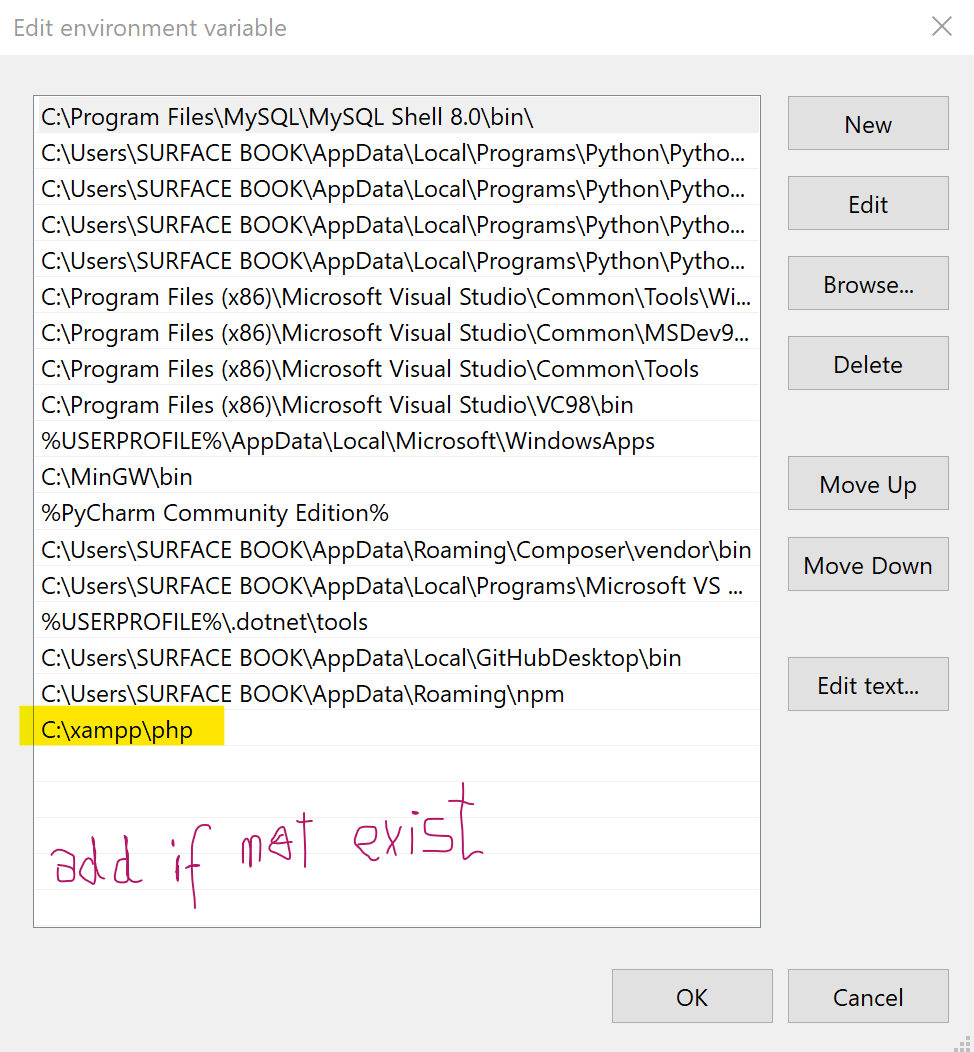
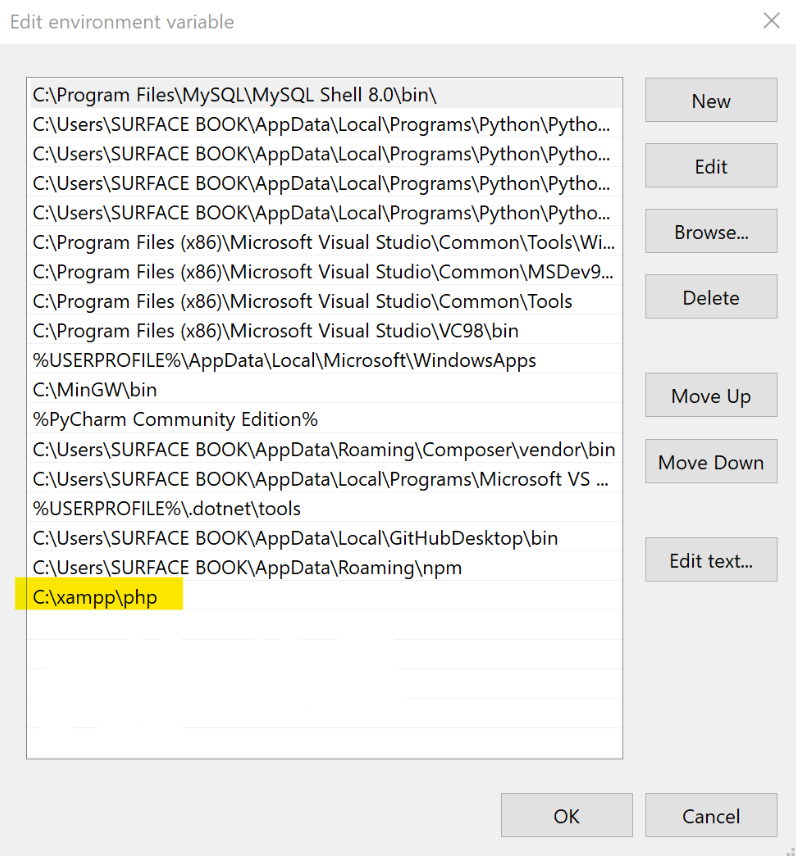
.

diff --git a/src/components/search/Search.sass b/src/components/search/Search.sass
@@ -1,0 +1,49 @@
+.main-home>a
+    color: white
+    text-decoration: none
+
+.box-search
+    background-color: rgba(255 255 255/6%)
+
+.container-search 
+    text-align: center
+    background: #171c2c
+    padding: 2rem
+    margin-top: 2rem
+    margin-bottom: 1rem
+    border-radius: 12px
+    box-shadow: 0 4px 6px rgba(0, 0, 0, 0.1)
+    @media (max-width: 768px) 
+        width: 90%
+
+
+.container-search h1 
+    font-size: 2rem
+    color: white
+
+
+.container-search p 
+    font-size: 1rem
+    margin: 1rem 0
+    color: #757070
+
+
+.container-search a 
+    display: inline-block
+    margin-top: 1rem
+    padding: 0.8rem 1.5rem
+    font-size: 1rem
+    color: #fff
+    background-color: #007bff
+    text-decoration: none
+    border-radius: 8px
+    transition: background-color 0.3s ease
+
+
+.container-search a:hover 
+    background-color: #81beff
+
+.link-title
+    font-size: 20px
+    @media (max-width: 768px) 
+        font-size: 16px

diff --git a/src/App.jsx b/src/App.jsx
@@ -1,35 +1,33 @@
 import "./App.sass";
 import { BrowserRouter as Router , Routes, Route} from "react-router-dom";
 import { 
-    Header , Home , Html , Css , Js , React , Mysql , Python , Django , DjangoRestFramework , Cmd , Git , Php , 
-    Laravel , Login , Search , CreateAccount , PayPalPayment , MyPage , ReportAnErrorUser , AllQuestion , 
-    AddQuestion , QuestionDetail , 
+    Header , Home , Html , Css , Js , React , Mysql , Python , Django , DjangoRestFramework , Cmd ,  Git , Php , Laravel , Login ,
+    Search , CreateAccount , PayPalPayment , MyPage , ReportAnErrorUser , AllQuestion , AddQuestion , QuestionDetail , 
 } from './components/path';
 import {  useCustomScrollToHash , useCustomResizeAside , useCustomClickMenuHeader } from "./custom/pathCustoms";
 
 function App() {
     const url =  "http://localhost:8000" ;  
-    // Scroll to id when print url  direct in browser
-    useCustomScrollToHash();  
-    // Handle Resize Aside 
-    useCustomResizeAside();   
+    useCustomScrollToHash();   // Scroll to id when print url  direct in browser
+    useCustomResizeAside();    // Handle Resize Aside 
     return (
     <Router>
         <Header  clickMenuHeader={useCustomClickMenuHeader}  />
         <Routes>
             <Route path='/'       element={<Home />} />
-            <Route path='/html/*' element={<Html     clickMenuHeader={useCustomClickMenuHeader}/>}/>
-            <Route path='/css/*' element={<Css       clickMenuHeader={useCustomClickMenuHeader}   />}  />
-            <Route path='/js/*' element={<Js         clickMenuHeader={useCustomClickMenuHeader} />}  />
-            <Route path='/react/*' element={<React   clickMenuHeader={useCustomClickMenuHeader} />}  />
-            <Route path='/mysql/*' element={<Mysql   clickMenuHeader={useCustomClickMenuHeader}  />}  />
-            <Route path='/python/*' element={<Python clickMenuHeader={useCustomClickMenuHeader} />}  />
-            <Route path='/django/*' element={<Django clickMenuHeader={useCustomClickMenuHeader} />}/>
-            <Route path='/django-rest-framework/*' element={<DjangoRestFramework  clickMenuHeader={useCustomClickMenuHeader} />} />
-            <Route path='/php/*' element={<Php          clickMenuHeader={useCustomClickMenuHeader}  />}  />
-            <Route path='/laravel/*' element={<Laravel  clickMenuHeader={useCustomClickMenuHeader} />} />
-            <Route path='/powerShell' element={<Cmd     clickMenuHeader={useCustomClickMenuHeader} />} />
-            <Route path='/git' element={<Git            clickMenuHeader={useCustomClickMenuHeader}  />} />
+            <Route path='/html/*' element={<Html       clickMenuHeader={useCustomClickMenuHeader} />} />
+            <Route path='/css/*' element={<Css         clickMenuHeader={useCustomClickMenuHeader} />} />
+            <Route path='/js/*' element={<Js           clickMenuHeader={useCustomClickMenuHeader} />} />
+            <Route path='/react/*' element={<React     clickMenuHeader={useCustomClickMenuHeader} />} />
+            <Route path='/mysql/*' element={<Mysql     clickMenuHeader={useCustomClickMenuHeader} />} />
+            <Route path='/python/*' element={<Python   clickMenuHeader={useCustomClickMenuHeader} />} />
+            <Route path='/django/*' element={<Django   clickMenuHeader={useCustomClickMenuHeader} />} />
+            <Route path='/django-rest-framework/*' 
+                        element={<DjangoRestFramework  clickMenuHeader={useCustomClickMenuHeader} />} />
+            <Route path='/php/*' element={<Php         clickMenuHeader={useCustomClickMenuHeader} />}  />
+            <Route path='/laravel/*' element={<Laravel clickMenuHeader={useCustomClickMenuHeader} />} />
+            <Route path='/powerShell' element={<Cmd    clickMenuHeader={useCustomClickMenuHeader} />} />
+            <Route path='/git' element={<Git           clickMenuHeader={useCustomClickMenuHeader}  />} />
             <Route path='/paypal-payment' element={<PayPalPayment  />} />
             <Route path='/login' element={<Login  url={url} />}  />
             <Route path='/register' element={<CreateAccount url={url}  />} />

diff --git a/src/components/search/Search.jsx b/src/components/search/Search.jsx
@@ -1,34 +1,27 @@
 import { Link } from "react-router-dom";
 import Footer from "../footer/Footer";
-import "./Search.css"
+import "./Search.sass";
 import { useDispatch, useSelector } from 'react-redux';
-import { 
-    useCustomScroolTo0 
-} from "../../custom/pathCustoms";
+import { useCustomScroolTo0 } from "../../custom/pathCustoms";
 
 
 
 export default function Search(props){       
     const  searchResult = useSelector(state => state.search.result ); // Ensure "footer" matches the key in the store
-    console.log(searchResult)
     const dispatch = useDispatch();
     
-    
     useCustomScroolTo0();
-
     
     const links = searchResult.map( e => 
         <Link to={`${e.route}`}> 
                 <div class="card box-search mb-1" style={{width: "18rem"}}>
                     <div class="card-body">
-                        <h5 class="card-title te"> 
-                                {e.value}
-                        </h5>
+                        <h5 class="link-title ps-2"> {e.value} </h5>
                     </div>
                 </div>
         </Link>  
     );
-    const empty_search  =  <div class="container">
+    const empty_search  =  <div class="container-search">
                                 <h1>لم يتم العثور عليه</h1>
                                 <p>لم نتمكن من العثور على ما تبحث عنه. يرجى التحقق من المعلومات والمحاولة مرة أخرى.</p>
                                 <a href="/">العودة إلى الصفحة الرئيسية</a>
@@ -46,4 +39,3 @@ export default function Search(props){
     </>
     )
 }
-

diff --git a/src/components/header/Header.jsx b/src/components/header/Header.jsx
@@ -394,13 +394,13 @@ export default function Header(props){
         </button>    
     </div>
 
-    <div className="header-search-container-phone" ref={searchPhone} onClick={(event)=>{ event.stopPropagation() }}>
-        <input type="text" name="search-phone" className="search-field-phone" />
-        <button className="search-btn-phone" type="submit">
+    <form className="header-search-container-phone" ref={searchPhone} onClick={(event)=>{ event.stopPropagation() }}  onSubmit={handleSubmitSearch}>
+        <input type="text" name="search-phone" className="search-field-phone"  onChange={ (e) => dispatch({ type: 'SET_MESSAGE_SEARCH', payload: e.target.value })} />
+        <button className="search-btn-phone" type="submit" onClick={()=>{navigate("/search")}}>
             <i className="fa-solid fa-magnifying-glass"></i>
         </button>
-    </div>
-
+    </form>
+   
     <nav className={`desktop-navigation-menu`} ref={divRef}>
         <div className={`container-fliud p-0`}>
             <ul className="desktop-menu-category-list">   

diff --git a/src/components/reportAnError/ReportAnErrorUser.jsx b/src/components/reportAnError/ReportAnErrorUser.jsx
@@ -14,9 +14,7 @@ const ReportAnErrorUser = (props) => {
     const [dataForm, setDataForm] = useState({ pageLink: '' , issueType: '' , issueDescription: '' ,});
 
     useEffect(()=>{
-        if (!localStorage.getItem("auth_token")) {
-              navigate("/login"); // Redirect if no token
-        }
+        if (!localStorage.getItem("auth_token"))  navigate("/login");   //Redirect if no token
     },[localStorage.getItem("auth_token")])
 
     const handleInputChange = (event) => {
@@ -41,7 +39,7 @@ const ReportAnErrorUser = (props) => {
 
   return (
 <> 
-    <section className="container" style={{marginTop: "200px"}}  onClick={()=>{dispatch({ type: 'FALSE_VISIBILTY_PROFILE' })}}>
+    <section className="container alert text-center" style={{marginTop: "200px", backgroundColor:"#171c2c"}}  onClick={()=>{dispatch({ type: 'FALSE_VISIBILTY_PROFILE' })}}>
         <form method="POST" onSubmit={handleCreatePost} >
             <div className="row">
                 <span className="col-sm-1"></span>

diff --git a/src/components/footer/Footer.jsx b/src/components/footer/Footer.jsx
@@ -3,6 +3,7 @@ import React, { useEffect } from 'react';
 import { useSelector, useDispatch } from 'react-redux';
 import "./Footer.sass";
 import images from "../images";
+import { Link } from 'react-router-dom';
 
 export default function Footer(props) {
     const dispatch = useDispatch();
@@ -83,7 +84,9 @@ export default function Footer(props) {
                         <p>
                             في حال أردت تقديم دعم مادي لمطوري الموقع يمكنك التبرع مرة واحدة أو بشكل شهري بالمبلغ الذي تريده من خلال بايبال 
                         </p>
-                        <button> Paypal </button>
+                        <Link to='/paypal-payment'>
+                            <button> Paypal </button>
+                        </Link>
                     </div>
                     <div className="mt-4">
                         <h4 className="footer-h4"> <i className="fa-solid fa-share-nodes fs-4 ms-2"></i> تابعنا </h4>

diff --git a/src/components/paypalpayment/PayPalPayment.jsx b/src/components/paypalpayment/PayPalPayment.jsx
@@ -1,9 +1,10 @@
 import { PayPalScriptProvider, PayPalButtons } from "@paypal/react-paypal-js";
 import "./PayPalPayment.sass";
 import { Footer } from "../path";
+import { useCustomScroolTo0  } from "../../custom/pathCustoms";
 
 const PayPalPayment = (props) => {
-  props.scrollY_to_0();
+  useCustomScroolTo0();
 
   
   return (

diff --git a/src/components/laravel/laravel/Introduction.jsx b/src/components/laravel/laravel/Introduction.jsx
@@ -51,7 +51,7 @@ export default function Introduction(props){
                      <li>انقر فوق <b>Advanced</b> </li>
                      <li>انقر فوق  <b>Environment Variables</b></li>
                      <li>اذهب الى  <b>path</b> داخل <b>User variables</b></li>
-                     <li> أضف المسار إذا لم يكن موجودا <b>C:\xampp\php</b></li>
+                     <li> أضف المسار <bdi><b>C:\xampp\php</b></bdi> إذا لم يكن موجودا </li>
                      <li> اضغط  <b>OK</b></li>
                   </ul>
                </p>

diff --git a/src/components/questionDetail/QuestionDetail.jsx b/src/components/questionDetail/QuestionDetail.jsx
@@ -85,7 +85,7 @@ const QuestionDetail = (props) => {
     return (
         <div onClick={()=>{dispatch({ type: 'FALSE_VISIBILTY_PROFILE' })}}>
             <h3 style={{ marginTop: "200px", marginRight: "8%" }}>السؤال :</h3>
-            <section className="container text-end mb-5">
+            <section className="container alert text-end mb-5" style={{backgroundColor:"#171c2c"}}>
                 <h4>{question.title}</h4>
                 <small>{question.text}</small>
                 <p><small>{question.language}</small></p>